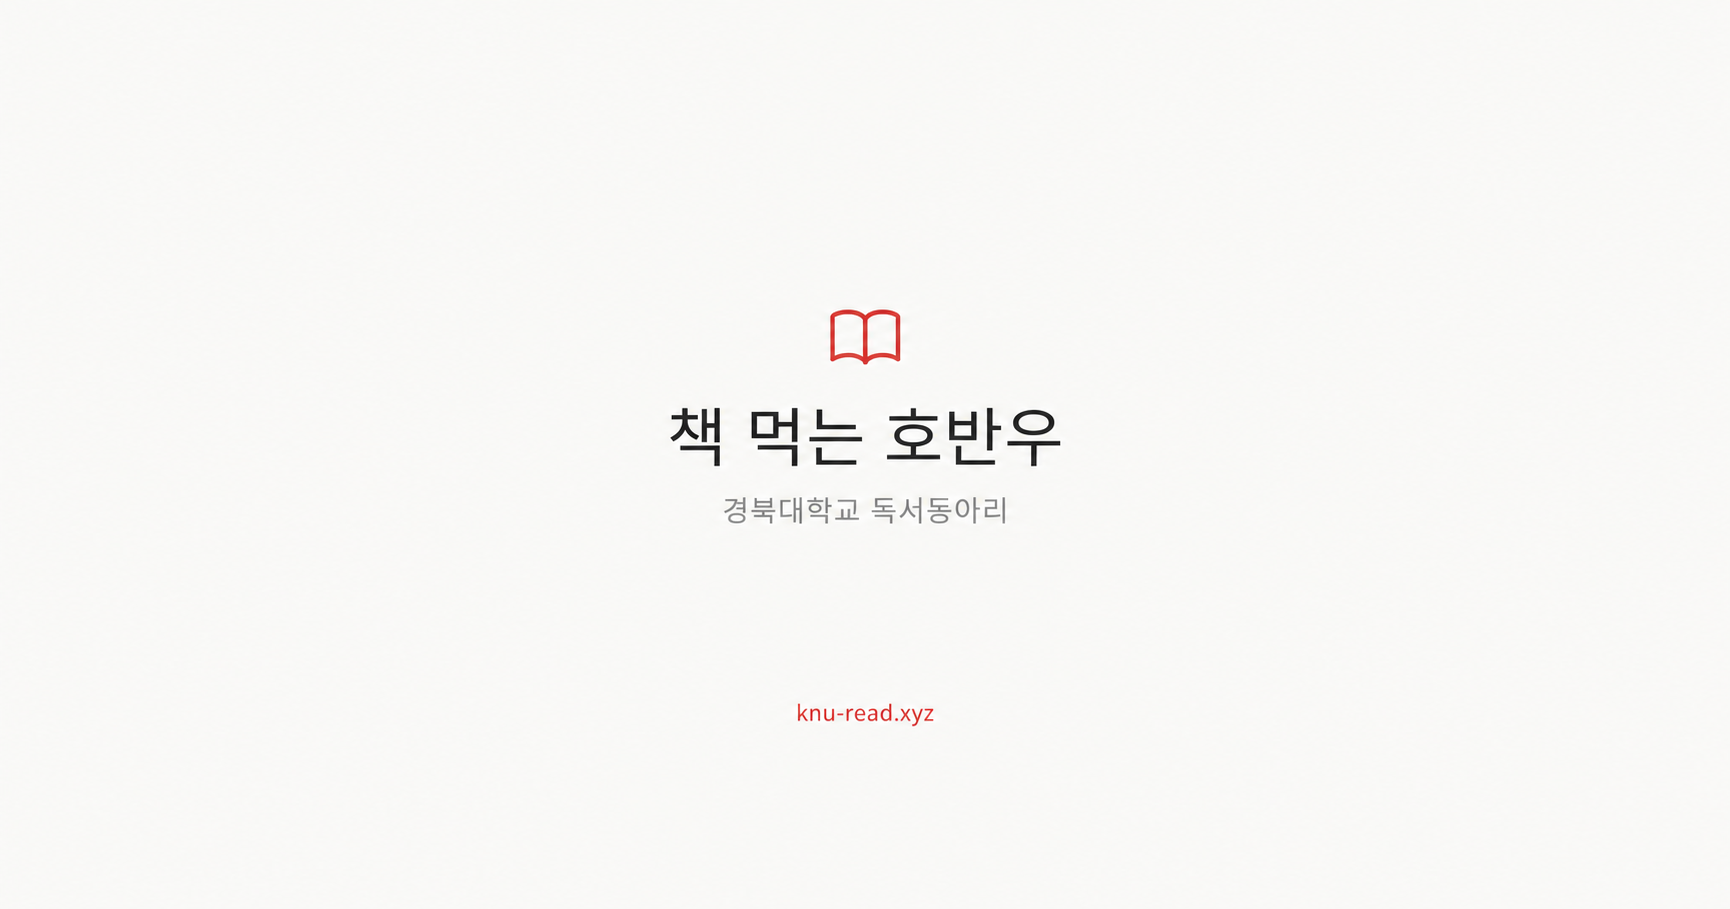
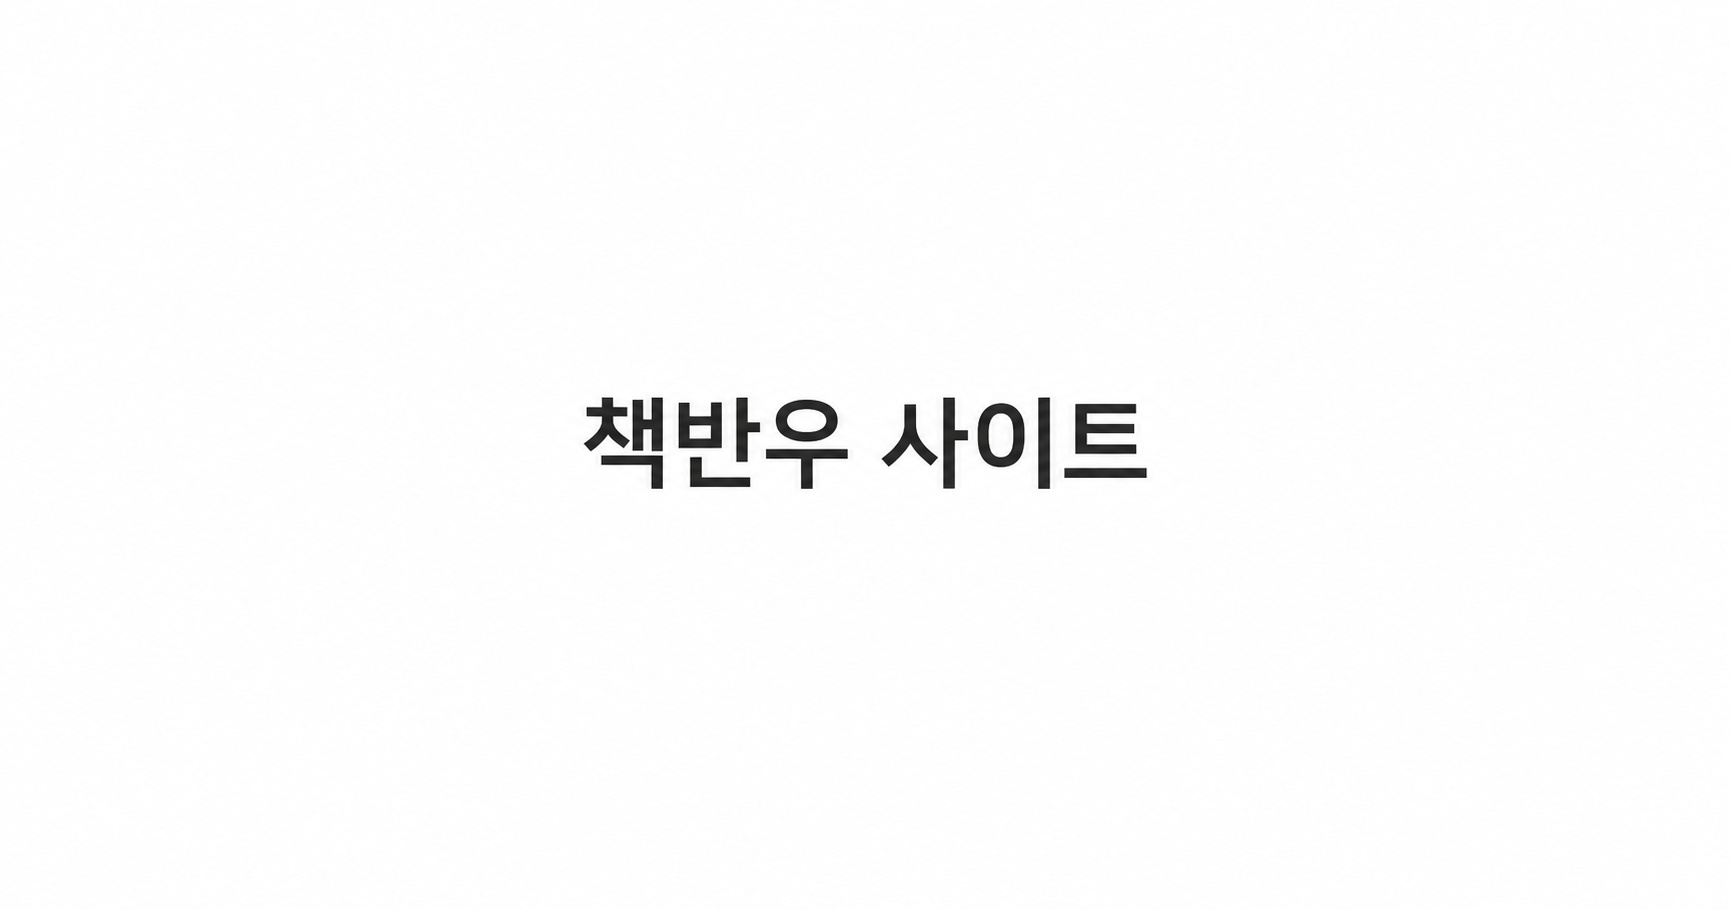
Simplify social preview to a single site label

Changed region(s): [[0.3434, 0.4312, 0.6555, 0.5853], [0.4682, 0.3388, 0.5306, 0.4004], [0.4682, 0.7701, 0.5306, 0.8009]]

diff --git a/templates/engagement_base.html b/templates/engagement_base.html
@@ -17,7 +17,7 @@
   <meta property="og:image" content="{{ social_meta.image if social_meta else default_social_image_url }}">
   <meta property="og:image:width" content="1730">
   <meta property="og:image:height" content="909">
-  <meta property="og:image:alt" content="경북대학교 독서동아리 책 먹는 호반우 · knu-read.xyz">
+  <meta property="og:image:alt" content="책반우 사이트">
   <meta name="twitter:card" content="summary_large_image">
   <meta name="twitter:title" content="{{ social_meta.title if social_meta else '책 먹는 호반우' }}">
   <meta name="twitter:description" content="{{ social_meta.description if social_meta else '책 먹는 호반우 참여 페이지' }}">

diff --git a/app.py b/app.py
@@ -184,7 +184,7 @@ def add_default_social_preview(response):
   <meta property="og:image" content="{image}">
   <meta property="og:image:width" content="1730">
   <meta property="og:image:height" content="909">
-  <meta property="og:image:alt" content="경북대학교 독서동아리 책 먹는 호반우 · knu-read.xyz">
+  <meta property="og:image:alt" content="책반우 사이트">
   <meta name="twitter:card" content="summary_large_image">
   <meta name="twitter:title" content="{title}">
   <meta name="twitter:description" content="{description}">
